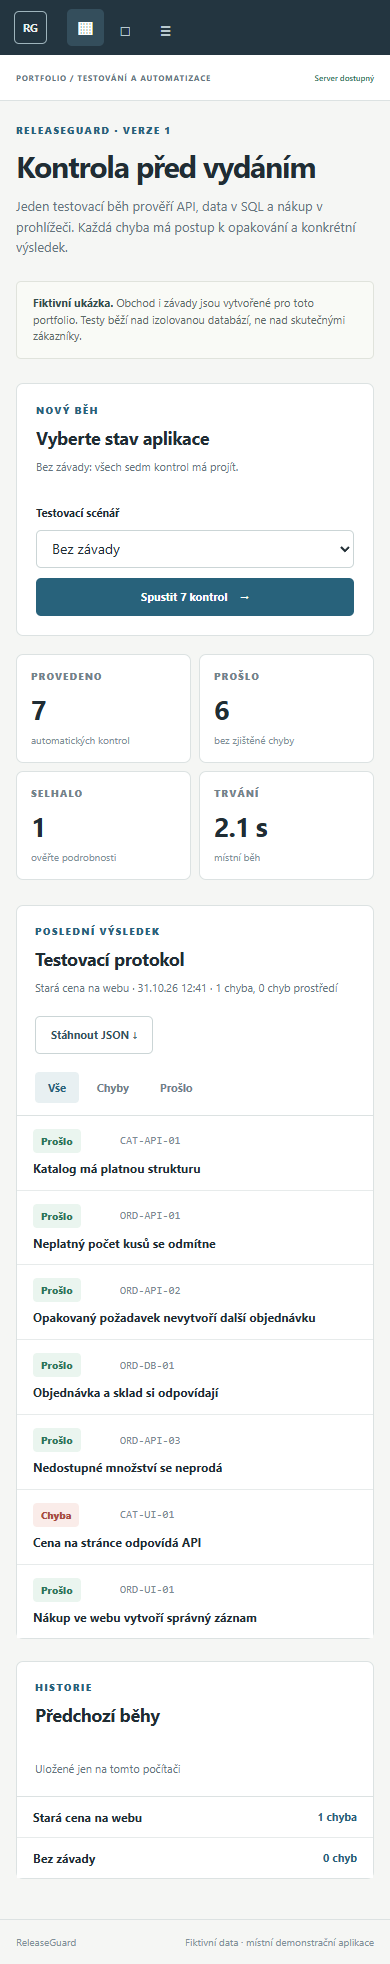
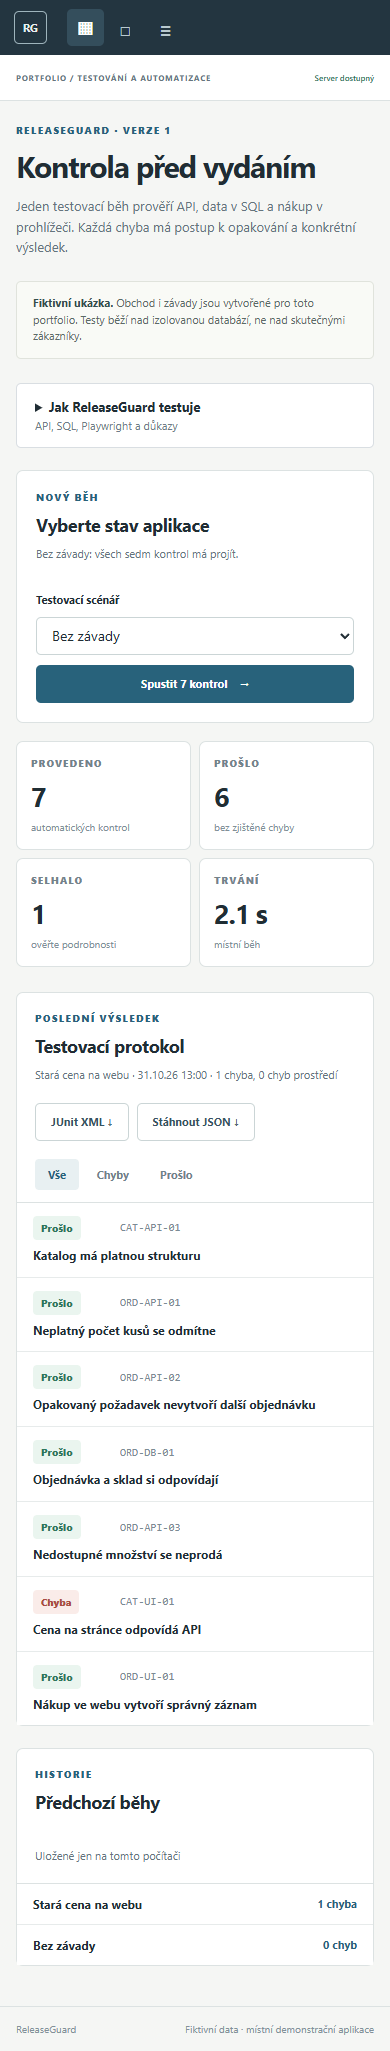
Add implementation notes and JUnit XML export

diff --git a/web/style.css b/web/style.css
@@ -3,3 +3,10 @@
 .layout{display:grid;grid-template-columns:225px minmax(0,1fr);min-height:100vh}.sidebar{background:var(--nav);color:#eaf0f1;padding:24px 14px;display:flex;flex-direction:column;min-height:100vh}.brand{display:flex;align-items:center;gap:11px;font-size:17px;font-weight:750;letter-spacing:-.4px;padding:2px 9px 35px}.brand small{display:block;font-size:10px;letter-spacing:.3px;font-weight:500;color:#a9bdc6;margin-top:2px}.brand-mark{width:33px;height:33px;display:grid;place-items:center;border:1px solid #9eb4bc;border-radius:5px;font-size:11px;letter-spacing:0}.nav-label,.section-kicker,.eyebrow{font-size:10px;font-weight:800;letter-spacing:1.3px}.nav-label{color:#9eb4bc;margin:8px 11px 12px}.sidebar nav{display:grid;gap:4px}.nav-item{width:100%;border:0;background:transparent;text-align:left;color:#b9c9cf;padding:12px 13px;border-radius:5px;font-size:12px;font-weight:650}.nav-item span{display:inline-block;width:24px;font-size:17px;vertical-align:-1px}.nav-item:hover,.nav-item.active{background:var(--nav-active);color:#fff}.sidebar-foot{margin-top:auto;border-top:1px solid #47606c;padding:17px 10px 0;font-size:11px;color:#e5ecee;line-height:1.7}.sidebar-foot small{color:#a9bbc2}.status-dot{display:inline-block;background:#74b9a0;width:7px;height:7px;border-radius:50%;margin-right:5px}.workspace{min-width:0;display:flex;flex-direction:column}.topbar{height:65px;border-bottom:1px solid var(--line);background:var(--white);display:flex;align-items:center;justify-content:space-between;padding:0 34px;color:var(--muted);font-size:10px;font-weight:750;letter-spacing:.8px}.server-status{font-weight:600;letter-spacing:0;color:var(--green)}main{width:min(1160px,100%);margin:0 auto;padding:34px 34px 60px;flex:1}.page-heading{margin:0 0 23px}.eyebrow{color:var(--blue);margin:0 0 13px}h1{font-size:clamp(30px,3.2vw,39px);line-height:1.13;letter-spacing:-1.2px;margin:0 0 12px;font-weight:760}h2{font-size:17px;letter-spacing:-.35px;margin:0 0 8px}.lead{color:var(--muted);line-height:1.6;max-width:660px;margin:0;font-size:13px}.notice{border:1px solid #e0e3dc;background:#f9faf6;padding:13px 16px;border-radius:5px;color:#5b6a68;line-height:1.5;font-size:11px;margin-bottom:24px}.notice strong{color:#344e4d}.run-panel,.panel{background:var(--white);border:1px solid var(--line);border-radius:7px}.run-panel{display:flex;justify-content:space-between;gap:30px;padding:25px 27px;align-items:center}.section-kicker{color:var(--blue);margin:0 0 9px}.run-panel h2{font-size:18px}.subtle{color:var(--muted);font-size:11px;line-height:1.55;margin:5px 0 0}.run-controls{display:flex;align-items:end;gap:10px;flex-wrap:wrap}.run-controls label{font-size:11px;font-weight:700;align-self:center}.run-controls select,.store-page input,.store-page select{height:38px;border:1px solid #cbd5d6;background:white;border-radius:5px;color:var(--ink);padding:0 11px}.run-controls select{min-width:200px}.button{display:inline-flex;align-items:center;justify-content:center;gap:12px;border:1px solid transparent;border-radius:5px;height:38px;padding:0 15px;font-size:11px;font-weight:750;white-space:nowrap}.button.primary{background:var(--blue);color:#fff}.button.primary:hover{background:var(--blue-dark)}.button.secondary{background:#fff;border-color:#cbd5d6;color:#365363}.button.secondary:hover{background:#f3f7f8}.metrics{display:grid;grid-template-columns:repeat(4,minmax(0,1fr));gap:12px;margin:18px 0 25px}.metrics article{background:#fff;border:1px solid var(--line);border-radius:7px;padding:18px 20px;min-height:108px}.metrics span{display:block;color:#73838b;font-size:10px;font-weight:800;letter-spacing:1px}.metrics strong{display:block;font-size:27px;letter-spacing:-1px;margin:8px 0 2px}.metrics small{color:#819098;font-size:10px}.panel-head{display:flex;justify-content:space-between;gap:20px;align-items:center;padding:22px 25px 18px}.panel-head h2{font-size:18px}.filters{display:flex;gap:5px;padding:0 25px 14px;border-bottom:1px solid var(--line)}.filters button{border:1px solid transparent;background:none;color:#70818a;padding:7px 12px;border-radius:4px;font-size:11px;font-weight:700}.filters button.active{background:#e8f0f2;color:var(--blue)}.case-list{min-height:90px}.case-row{display:grid;grid-template-columns:80px 95px minmax(0,1fr) 110px 74px 20px;gap:14px;align-items:center;width:100%;text-align:left;background:#fff;border:0;border-bottom:1px solid #e7ebeb;padding:15px 25px;color:var(--ink)}.case-row:last-child{border-bottom:0}.case-row:hover,.history-row:hover{background:#f9fbfb}.case-code{color:#7b8b94;font:11px Consolas,monospace}.case-name{font-size:12px;font-weight:700}.case-area{font-size:10px;color:#70818a}.case-duration{font-size:10px;color:#70818a;text-align:right}.case-arrow{font-size:17px;color:#8da1aa;text-align:right}.badge{display:inline-block;justify-self:start;border-radius:4px;padding:5px 8px;font-size:10px;font-weight:800}.badge.passed{color:var(--green);background:#eaf5ef}.badge.failed{color:var(--red);background:#faece9}.badge.error{color:var(--amber);background:#fff2e2}.empty{padding:22px 25px;margin:0;color:#7a8b92;font-size:12px}.history-panel{margin-top:22px}.history-list{border-top:1px solid var(--line)}.history-row{border:0;border-bottom:1px solid #e7ebeb;width:100%;background:#fff;text-align:left;display:grid;grid-template-columns:1fr 150px 95px;gap:15px;padding:13px 25px;font-size:11px;color:var(--ink)}.history-row:last-child{border:0}.history-row strong{font-size:12px}.history-row span{color:var(--muted)}.history-row .history-status{text-align:right;color:var(--blue);font-weight:750}.info-grid{display:grid;grid-template-columns:1fr 1fr;gap:17px;margin-top:30px}.info-grid .panel{padding:24px}.info-grid p,.info-grid li,.method-list p{color:var(--muted);line-height:1.65;font-size:12px}.info-grid ul{padding-left:18px;margin-bottom:0}.info-grid .button{margin-top:12px}.small-note{font-size:11px;color:var(--muted);margin-top:18px}.method-list{margin:30px 0;display:grid;gap:0;background:#fff;border:1px solid var(--line);border-radius:7px}.method-list article{display:flex;gap:20px;padding:23px 25px;border-bottom:1px solid var(--line)}.method-list article:last-child{border:0}.method-list span{font:20px Georgia,serif;color:var(--blue)}.method-list p{margin:0}footer{padding:17px 34px;border-top:1px solid var(--line);color:#829199;font-size:10px;display:flex;justify-content:space-between}.toast{position:fixed;right:18px;bottom:18px;background:#263e4a;color:white;border-radius:5px;padding:13px 16px;font-size:12px;box-shadow:0 8px 25px #0002;z-index:5}dialog{width:min(670px,calc(100vw - 28px));border:1px solid var(--line);border-radius:7px;padding:25px;color:var(--ink);box-shadow:0 25px 60px #12232e44;max-height:calc(100dvh - 40px);overflow:auto}dialog::backdrop{background:#1c2b34a3}.dialog-head{display:flex;justify-content:space-between;gap:18px}.dialog-head h2{font-size:22px}.close-button{border:0;background:#edf1f2;border-radius:4px;width:30px;height:30px;font-size:20px;color:#536b77}.detail-block{border-top:1px solid var(--line);padding:16px 0}.detail-block h3{font-size:11px;letter-spacing:.5px;margin:0 0 7px;text-transform:uppercase;color:var(--muted)}.detail-block p{font-size:12px;line-height:1.6;margin:0;overflow-wrap:anywhere}.detail-block ol{padding-left:19px;margin:0;color:#52636b;font-size:12px;line-height:1.8}.detail-evidence{max-width:100%;border:1px solid var(--line);border-radius:4px;margin:10px 0}.detail-links{display:flex;gap:12px;font-size:11px;font-weight:700;color:var(--blue)}
 .store-page{background:#f8f8f6}.store-top{height:64px;display:flex;align-items:center;justify-content:space-between;gap:15px;background:#fff;border-bottom:1px solid var(--line);padding:0 max(22px,calc((100vw - 1080px)/2));font-size:11px;color:#62737b}.store-top strong{font-size:15px;color:var(--ink)}.store-shell{width:min(1080px,100%);padding:42px 22px 70px}.product-grid{display:grid;grid-template-columns:repeat(3,minmax(0,1fr));gap:15px;margin:30px 0}.product-card{background:#fff;border:1px solid var(--line);border-radius:6px;padding:22px}.product-symbol{display:grid;place-items:center;height:110px;background:#edf1f0;color:#68818a;font:32px Georgia,serif;margin-bottom:18px}.product-card h2{font-size:15px;margin:0 0 7px}.product-price{font-size:20px;font-weight:750;display:block;margin:18px 0 6px}.product-stock{font-size:11px;color:var(--muted)}.checkout-panel{display:grid;grid-template-columns:1fr 1fr;gap:35px;background:#fff;border:1px solid var(--line);border-radius:6px;padding:26px}.checkout-panel p{color:var(--muted);font-size:12px;line-height:1.6}.store-page form{display:grid;gap:8px}.store-page form label{font-size:11px;font-weight:750;margin-top:5px}.store-page form button{margin-top:7px}.form-error{color:var(--red)!important;margin:0;min-height:15px}.confirmation{margin-top:17px;border:1px solid #b9d8c7;background:#eff8f2;color:#2c6347;padding:16px;border-radius:5px;font-weight:700}
 @media(max-width:900px){.layout{grid-template-columns:64px minmax(0,1fr)}.sidebar{padding:17px 6px}.brand{justify-content:center;padding:0 0 26px}.brand>span:last-child,.nav-label{display:none}.nav-item{font-size:0}.nav-item{text-align:center;padding:11px 0}.nav-item span{width:auto;font-size:19px}.sidebar-foot{font-size:0;text-align:center}.sidebar-foot small{display:none}.topbar{padding:0 22px}main{padding:26px 22px 50px}.run-panel{align-items:flex-start;flex-direction:column}.run-controls{width:100%}.metrics{grid-template-columns:repeat(2,minmax(0,1fr))}}@media(max-width:600px){.layout{display:block}.sidebar{min-height:0;display:block;padding:9px 14px}.brand{display:inline-flex;padding:0;vertical-align:middle;margin-right:16px}.sidebar nav{display:inline-flex;gap:3px;vertical-align:middle}.nav-item{width:37px;padding:5px 0}.sidebar-foot{display:none}.topbar{height:46px;padding:0 16px;font-size:8px}.topbar span:first-child{max-width:220px}main{padding:22px 16px 40px}.run-panel{padding:19px}.run-controls{display:grid;grid-template-columns:1fr}.run-controls label{justify-self:start}.run-controls select,.run-controls button{width:100%}.metrics{gap:8px}.metrics article{padding:14px}.panel-head{padding:18px;align-items:flex-start;flex-direction:column}.filters{padding:0 18px 12px}.case-row{grid-template-columns:80px minmax(0,1fr);gap:7px;padding:13px 16px}.case-area,.case-duration{display:none}.case-name{grid-column:1/-1;font-size:12px;line-height:1.4}.case-arrow{display:none}.history-row{grid-template-columns:1fr 70px;padding:12px 16px}.history-row span:not(.history-status){display:none}.info-grid,.checkout-panel,.product-grid{grid-template-columns:1fr}.store-top{padding:0 16px}.store-top span{display:none}.store-shell{padding:28px 16px 45px}footer{padding:15px 16px}.checkout-panel{gap:8px}}
+.tech-details{margin:0 0 22px;border:1px solid #d9dee2;background:#fff;border-radius:5px;padding:0 18px}
+.tech-details summary{cursor:pointer;padding:14px 0;font-size:13px;font-weight:700}
+.tech-details summary span{float:right;color:#6e7c88;font-size:11px;font-weight:400}
+.tech-body{border-top:1px solid #e6eaec;padding:5px 0 12px}
+.tech-body p{font-size:12px;line-height:1.65;color:#53616b;margin:10px 0}
+.report-actions{display:flex;gap:8px;flex-wrap:wrap}
+@media(max-width:650px){.tech-details summary span{display:block;float:none;margin-top:3px}}

diff --git a/web/index.html b/web/index.html
@@ -27,12 +27,13 @@
         <section id="overview-view">
           <div class="page-heading"><div><p class="eyebrow">RELEASEGUARD · VERZE 1</p><h1>Kontrola před vydáním</h1><p class="lead">Jeden testovací běh prověří API, data v SQL a nákup v prohlížeči. Každá chyba má postup k opakování a konkrétní výsledek.</p></div></div>
           <div class="notice"><strong>Fiktivní ukázka.</strong> Obchod i závady jsou vytvořené pro toto portfolio. Testy běží nad izolovanou databází, ne nad skutečnými zákazníky.</div>
+          <details class="tech-details"><summary>Jak ReleaseGuard testuje <span>API, SQL, Playwright a důkazy</span></summary><div class="tech-body"><p><strong>Technologie:</strong> Node.js HTTP server, SQLite a Playwright. V prohlížeči běží jednoduché HTML/CSS/JavaScript rozhraní. Žádné externí API ani API klíč.</p><p><strong>Postup:</strong> Každá ze sedmi kontrol dostane vlastní databázi. Testy porovnávají HTTP odpovědi, SQL stav i viditelnou cenu a nákupní tok. Přepínatelné závady mění skutečné chování fiktivního obchodu.</p><p><strong>Důkazy:</strong> Report odděluje chybu produktu od chyby prostředí. Při selhání webového testu ukládá snímek a Playwright trace. JSON a JUnit XML lze použít v další kontrole.</p></div></details>
           <section class="run-panel" aria-labelledby="run-heading">
             <div><p class="section-kicker">NOVÝ BĚH</p><h2 id="run-heading">Vyberte stav aplikace</h2><p id="scenario-note" class="subtle">Bez závady: všech sedm kontrol má projít.</p></div>
             <div class="run-controls"><label for="scenario">Testovací scénář</label><select id="scenario"><option value="clean">Bez závady</option><option value="duplicate">Opakovaná objednávka</option><option value="stock">Nesoulad skladu</option><option value="validation">Chybějící validace</option><option value="price">Stará cena na webu</option></select><button id="run-button" class="button primary" type="button">Spustit 7 kontrol <span aria-hidden="true">→</span></button></div>
           </section>
           <section class="metrics" aria-label="Souhrn posledního běhu"><article><span>PROVEDENO</span><strong id="metric-total">—</strong><small>automatických kontrol</small></article><article><span>PROŠLO</span><strong id="metric-passed">—</strong><small>bez zjištěné chyby</small></article><article><span>SELHALO</span><strong id="metric-failed">—</strong><small>ověřte podrobnosti</small></article><article><span>TRVÁNÍ</span><strong id="metric-duration">—</strong><small>místní běh</small></article></section>
-          <section class="panel" aria-labelledby="results-heading"><div class="panel-head"><div><p class="section-kicker">POSLEDNÍ VÝSLEDEK</p><h2 id="results-heading">Testovací protokol</h2><p id="report-subtitle" class="subtle">Zatím nebyl spuštěn žádný test.</p></div><button id="download-report" class="button secondary" type="button" disabled>Stáhnout JSON ↓</button></div><div id="result-filters" class="filters" role="group" aria-label="Filtrovat výsledky"><button type="button" data-filter="all" class="active">Vše</button><button type="button" data-filter="failed">Chyby</button><button type="button" data-filter="passed">Prošlo</button></div><div id="case-list" class="case-list"><p class="empty">Vyberte scénář a spusťte kontroly.</p></div></section>
+          <section class="panel" aria-labelledby="results-heading"><div class="panel-head"><div><p class="section-kicker">POSLEDNÍ VÝSLEDEK</p><h2 id="results-heading">Testovací protokol</h2><p id="report-subtitle" class="subtle">Zatím nebyl spuštěn žádný test.</p></div><div class="report-actions"><button id="download-junit" class="button secondary" type="button" disabled>JUnit XML ↓</button><button id="download-report" class="button secondary" type="button" disabled>Stáhnout JSON ↓</button></div></div><div id="result-filters" class="filters" role="group" aria-label="Filtrovat výsledky"><button type="button" data-filter="all" class="active">Vše</button><button type="button" data-filter="failed">Chyby</button><button type="button" data-filter="passed">Prošlo</button></div><div id="case-list" class="case-list"><p class="empty">Vyberte scénář a spusťte kontroly.</p></div></section>
           <section class="panel history-panel" aria-labelledby="history-heading"><div class="panel-head"><div><p class="section-kicker">HISTORIE</p><h2 id="history-heading">Předchozí běhy</h2></div><span class="subtle">Uložené jen na tomto počítači</span></div><div id="history-list" class="history-list"><p class="empty">Historie je zatím prázdná.</p></div></section>
         </section>
         <section id="target-view" hidden><p class="eyebrow">TESTOVACÍ PROSTŘEDÍ</p><h1>Malý obchod. Skutečné kontroly.</h1><p class="lead">Tři fiktivní produkty, nákupní formulář a SQLite databáze. Závady mění konkrétní chování aplikace; testy je musí odhalit.</p><div class="info-grid"><article class="panel"><h2>Otevřít obchod</h2><p>Projděte stejný nákupní tok, který automaticky prověřuje prohlížečový test.</p><a class="button primary" href="/store" target="_blank" rel="noopener">Otevřít testovaný obchod ↗</a></article><article class="panel"><h2>Co testujeme</h2><ul><li>Schéma a stavové kódy API</li><li>Opakované požadavky a zásoby</li><li>Přesné SQL záznamy</li><li>Cenu a nákup na webu</li></ul></article></div><p class="small-note">Ruční obchod běží na vlastní fiktivní sadě. Každý automatický test má samostatnou izolovanou databázi.</p></section>

diff --git a/web/app.js b/web/app.js
@@ -1,3 +1,4 @@
+import { reportToJUnit } from './report-junit.mjs';
 const $ = id => document.getElementById(id);
 const state = { report: null, currentId: null, selectedTest: null, filter: 'all', busy: false, poll: null };
 const notes = {
@@ -36,6 +37,7 @@ function renderReport() {
   $('metric-duration').textContent = report ? `${(report.durationMs / 1000).toFixed(1)} s` : '—';
   $('report-subtitle').textContent = report ? (report.message || `${report.scenarioLabel} · ${date(report.createdAt)} · ${countWord(report.failed, 'chyba', 'chyby', 'chyb')}, ${countWord(report.errors, 'chyba', 'chyby', 'chyb')} prostředí`) : state.busy ? 'Kontroly probíhají…' : 'Zatím nebyl spuštěn žádný test.';
   $('download-report').disabled = !report;
+  $('download-junit').disabled = !report;
   renderCases();
 }
 function detailBlock(title, content) { const block = node('section', 'detail-block'); block.append(node('h3', '', title), node('p', '', content)); return block; }
@@ -71,6 +73,7 @@ async function startRun() {
   catch (error) { setBusy(false); toast(error.message); }
 }
 function downloadReport() { if (!state.report) return; const url = URL.createObjectURL(new Blob([JSON.stringify(state.report, null, 2)], { type: 'application/json' })); const link = node('a'); link.href = url; link.download = `releaseguard-${state.report.scenario}-${state.report.id}.json`; document.body.append(link); link.click(); link.remove(); setTimeout(() => URL.revokeObjectURL(url), 2000); }
+function downloadJUnit() { if (!state.report) return; const url = URL.createObjectURL(new Blob([reportToJUnit(state.report)], { type: 'application/xml;charset=utf-8' })); const link = node('a'); link.href = url; link.download = `releaseguard-${state.report.scenario}-${state.report.id}.xml`; document.body.append(link); link.click(); link.remove(); setTimeout(() => URL.revokeObjectURL(url), 2000); }
 function downloadCase() {
   const test = state.selectedTest, report = state.report;
   if (!test || !report || test.status === 'passed') return;
@@ -82,6 +85,7 @@ document.querySelectorAll('[data-filter]').forEach(button => button.addEventList
 $('scenario').addEventListener('change', () => { $('scenario-note').textContent = notes[$('scenario').value]; });
 $('run-button').addEventListener('click', startRun);
 $('download-report').addEventListener('click', downloadReport);
+$('download-junit').addEventListener('click', downloadJUnit);
 $('download-case').addEventListener('click', downloadCase);
 $('dialog-close').addEventListener('click', () => $('case-dialog').close());
 Promise.all([api('/api/health'), loadHistory()]).then(([, runs]) => { $('server-status').textContent = 'Server dostupný'; if (runs.length) loadRun(runs[0].id).catch(error => toast(error.message)); }).catch(error => { $('server-status').textContent = 'Server nedostupný'; toast(error.message); });

diff --git a/README.md b/README.md
@@ -10,7 +10,8 @@
 - **Čtyři vložené závady:** duplicitní objednávka při opakovaném požadavku, neodečtený sklad, přijetí nulového množství a rozdílná cena na webu a v API.
 - **Izolace testů:** každá kontrola dostane vlastní SQLite databázi se stejnými fiktivními produkty. Jedna chyba proto nemění vstup další kontroly.
 - **Skutečné ověření:** testy volají místní HTTP API, čtou SQL tabulky a procházejí nákup přes Playwright. Snímky a trace vznikají jen při selhání prohlížečového testu.
-- **Přehled výsledků:** filtr chyb, detail nálezu, historie běhů, JSON protokol a samostatné hlášení chyby ve formátu Markdown.
+- **Přehled výsledků:** filtr chyb, detail nálezu, historie běhů, JSON protokol, JUnit XML pro CI a samostatné hlášení chyby ve formátu Markdown.
+- **Technické vysvětlení:** rozklikávací panel ukazuje použité technologie, izolaci testů a vznik důkazů.
 - **Malý testovaný obchod:** tři fiktivní produkty a místní nákupní formulář, který lze otevřít a vyzkoušet ručně.
 
 ## Spuštění
@@ -30,7 +31,7 @@ pnpm test
 pnpm qa
 ```
 
-`pnpm test` ověřuje pravidla obchodu a bezpečnostní chování místního serveru. `pnpm qa` spustí prohlížečovou regresi v izolované dočasné databázi: zdravý běh, závadu ceny, screenshot, stažení hlášení, historii, mobilní rozložení a ruční nákup. Vytvoří `docs/preview.png` a `docs/mobile-preview.png`.
+`pnpm test` ověřuje pravidla obchodu, JUnit export a bezpečnostní chování místního serveru. `pnpm qa` spustí prohlížečovou regresi v izolované dočasné databázi: zdravý běh, závadu ceny, screenshot, stažení JUnit XML i hlášení, historii, mobilní rozložení a ruční nákup. Vytvoří `docs/preview.png` a `docs/mobile-preview.png`.
 
 ## Stav ověření
 
@@ -52,4 +53,4 @@ Server naslouchá jen na `127.0.0.1`, kontroluje `Host` a `Origin`, omezuje veli
 
 ## English summary
 
-ReleaseGuard is a local QA portfolio project that tests a fictional shop rather than displaying prewritten results. Seven checks cover HTTP API contracts, input validation, idempotent order creation, SQLite inventory consistency, stock limits, visible prices, and a browser checkout. Four injected faults demonstrate that the suite detects real differences. Failed browser checks retain a screenshot and Playwright trace; findings include expected and observed results, reproduction steps, JSON export, and a Markdown bug report. Tests use isolated SQLite databases, so runs are repeatable. Node.js 24+, Playwright, and a local browser are required. The server is loopback-only and must not be exposed as a production service.
+ReleaseGuard is a local QA portfolio project that tests a fictional shop rather than displaying prewritten results. Seven checks cover HTTP API contracts, input validation, idempotent order creation, SQLite inventory consistency, stock limits, visible prices, and a browser checkout. Four injected faults demonstrate that the suite detects real differences. Failed browser checks retain a screenshot and Playwright trace; findings include expected and observed results, reproduction steps, JSON and JUnit XML exports, and a Markdown bug report. An expandable note explains the test architecture. Tests use isolated SQLite databases, so runs are repeatable. Node.js 24+, Playwright, and a local browser are required. The server is loopback-only and must not be exposed as a production service.

diff --git a/docs/QA.md b/docs/QA.md
@@ -4,6 +4,8 @@ Aktualizováno 31. 10. 2026. Místní Windows, Node.js 24.22.1, Playwright 1.62.
 
 ## Automatické kontroly
 
+- Po doplnění JUnit XML exportu a rozklikávacího technického přehledu prošlo `node --test` 7/7. Prohlížečová regrese skutečně stáhla XML s výsledkem 7 testů, 1 selháním a 0 chybami prostředí, otevřela technický přehled a znovu prošla zdravým i vadným scénářem. XML převádí selhání produktu na `failure` a chyby prostředí na `error`.
+
 - `node --test`: 6/6 testů prošlo. Kontrolují přesnou cenu v haléřích, izolaci transakcí, idempotenci, validaci, vyprodání, skutečné rozdíly vložených závad, místní server, `Host`, `Origin`, chybný JSON a zákaz čtení zdrojového souboru přes HTTP.
 - Prohlížečový průchod `node scripts/qa.mjs`: čistý běh 7/7, závada ceny 6/7, uložený screenshot a trace, stažené Markdown hlášení, načtení historie po obnovení stránky, mobilní šířka 390 px bez horizontálního přetečení, ruční nákup ve fiktivním obchodě.
 - Ručně spuštěné zbývající závady: duplicitní objednávka 6/7, nesoulad skladu 5/7, chybějící validace 6/7. Všechny výsledky byly bez chyby prostředí.
